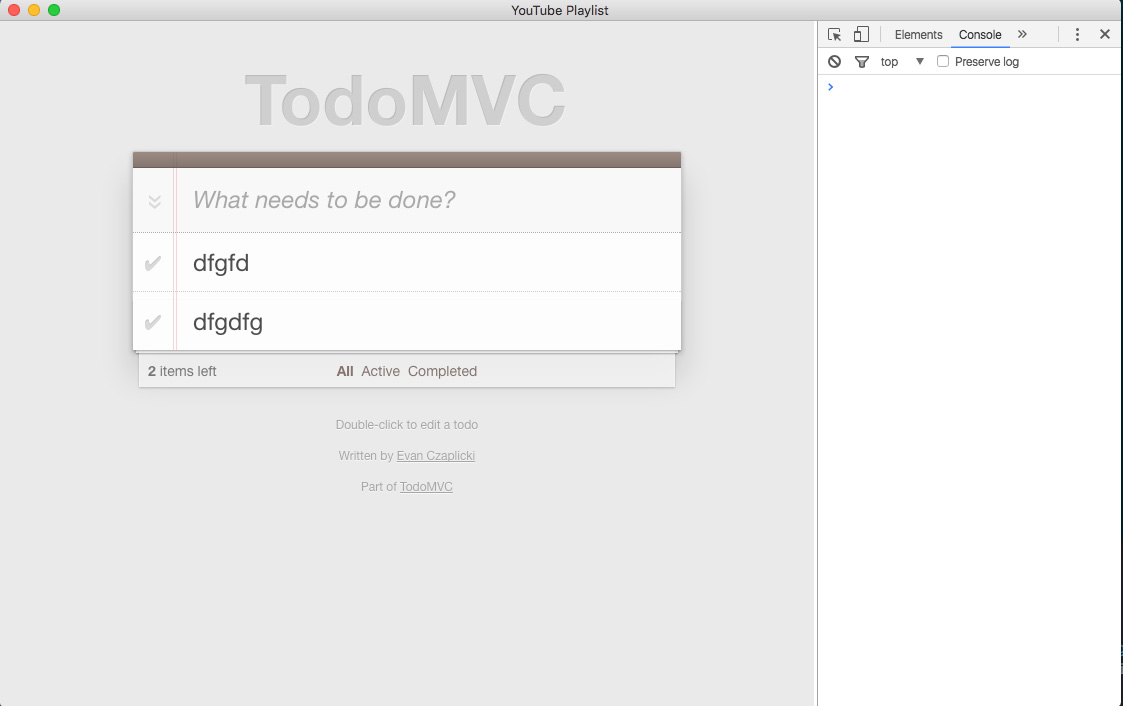
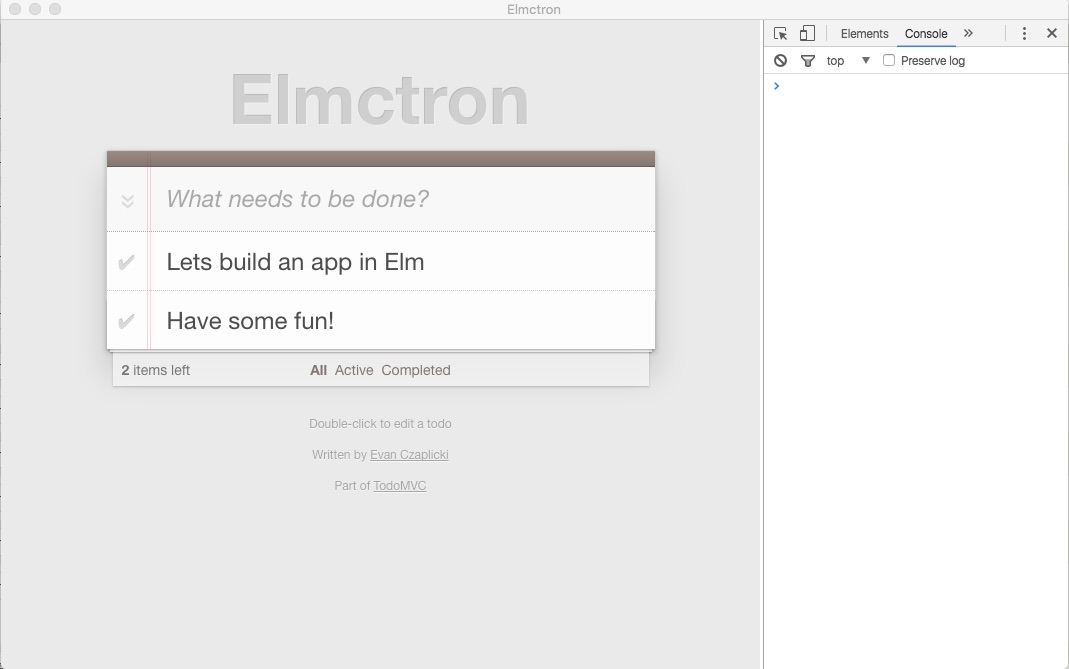
Change pictures, and edit to reflact Elmctron.

Changed region(s): [[0.0926, 0.0897, 0.6174, 0.568], [0.0, 0.0, 1.0, 1.0], [0.2778, 0.5979, 0.4322, 0.7474]]

diff --git a/app/_posts/2016-07-28-elm-with-electron.md b/app/_posts/2016-07-28-elm-with-electron.md
@@ -3,6 +3,7 @@ title: "Elm - if you can't beat them, join them"
 tags:
   - Elm
   - Electron
+  - Open Source
 permalink: "/content/elm-electron-build"
 layout: post
 author: NirGalon
@@ -14,9 +15,10 @@ published: true
 
 I work at Gizra, so it was only a matter of time before the Elm thing infected me as well, and I think it's growing on me.
 
-I wanted to start playing with it, to build something new, not just the plain old TodoMVC. So, the idea was to build a YouTube playlist app, so everyone can share their YouTube music links. First thing first, I took the TodoMVC in Elm and got it to work in Electron.
 
-[Electron](http://electron.atom.io/) enables you to build cross platform desktop apps with web technologies.
+I wanted to build something a little different, not just the plain old TodoMVC. So, I took the TodoMVC in Elm and got it to work in Electron, and called it `Elmctron` (I know, mind blowing, so creative of me).
+
+[Electron](http://electron.atom.io/) enables you to build cross platform desktop apps with web technologies. So we can take all the goodies from elm and use them in our desktop application, and we get cross platform for free!
 
 In my mind we should get couple of things out of the box:
 
@@ -30,9 +32,9 @@ Just to make things clear, the only things I was willing to do were `git clone .
 
 <!-- more -->
 
-My project is called, wait for it, `YouTube-Playlist` (mind blowing). In Gizra we achieve what we aim for and then open source it, because why not. So, of course, you're more than welcome to fork the [GitHub repo](https://github.com/nirgn975/YouTube-Playlist).
+In Gizra we achieve what we aim for and then open source it, because why not. So, of course, you're more than welcome to fork the [GitHub repo](https://github.com/nirgn975/Elmctron).
 
-After you `git clone git@github.com:nirgn975/YouTube-Playlist.git`, and `npm install`, just run `gulp` and see the magic happen:
+After you `git clone`, and `npm install`, just run `gulp` and see the magic happen:
 
 {% include thumbnail.html image_path="assets/images/posts/elm-electron-build/gulp-electron.jpg" caption="Gulp install Elm packages automagically and start Electron" %}
 
